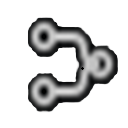
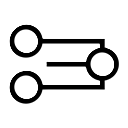
Release prep: clean extension README, categories/keywords, changelogs
- README: rewritten for a published extension — removed scaffold/phase/backlog
  notes and the stale "icon still needed" line; fixed the outdated TS-tracer wording.
- package.json: categories Data Science/Visualization/AI/Other (VS Code has no
  "Data Engineering" category — added as a keyword instead, with data warehouse,
  impact analysis, dtsx, openlineage, mcp, copilot, elt).
- Extension CHANGELOG: consolidated into a clean 0.1.0 first-release entry.
- Root CHANGELOG: [1.2.0] covering the cross-platform engine, per-connection-manager
  overrides, CLI labels/trace, the MCP server, and the new VS Code extension; scan-form
  regrouping noted under Changed.
- Refreshed icon.png.

diff --git a/vscode-extension/README.md b/vscode-extension/README.md
@@ -1,107 +1,77 @@
-# SSIS Lineage (VS Code extension)
+# SSIS Lineage
 
-Scan SSIS projects and explore / trace data lineage without leaving VS Code.
+Scan SQL Server Integration Services (SSIS) projects and explore, trace, and
+document column-level data lineage without leaving VS Code — including AI-agent
+access to your lineage.
 
-> **Status: Phase 1 (MVP).** This is an early scaffold living in the
-> [SSIS-Project-Documentation](../) monorepo. It reuses the same .NET lineage
-> engine and the same Cytoscape graph renderer as the desktop/web app.
+## Features
 
-## Packaging & install (self-contained VSIX)
-
-The extension bundles a self-contained build of the .NET engine (CLI + MCP server),
-so **end users need nothing installed** — no .NET runtime. VSIXes are
-platform-specific.
-
-```bash
-# From vscode-extension/. Requires the .NET 10 SDK (for the build) and Node.
-npm install
-npm run package                 # builds the VSIX for this machine's platform
-npm run package -- linux-x64    # or a specific target:
-                                #   win32-x64 | win32-arm64 | linux-x64 | linux-arm64 | darwin-x64 | darwin-arm64
-```
-
-This publishes the engine self-contained into `bin/`, compiles the extension, and
-writes `ssis-lineage-<target>.vsix` (~40 MB). Install it with **Extensions ▸ … ▸
-Install from VSIX…** (or `code --install-extension ssis-lineage-<target>.vsix`).
-
-> A 128×128 PNG `icon` (referenced from `package.json`) is still needed for a
-> Marketplace listing; it is optional for sideloaded VSIXes.
-
-## What it does today
-
-- Detects `.dtproj` projects in the workspace.
-- **SSIS Lineage: Scan Project** runs the engine CLI and loads the result.
-- **Lineage** activity-bar view: a Package → Task → Component tree of the scan.
-- **Lineage graph** webview: the object/data-flow and column views, with Fit and
-  Reset (reusing the shared renderer).
-- **SSIS Lineage: Trace Lineage** — search any column or table, choose a direction
-  (full / origins / impact), and the column view renders the traced sub-graph with
-  the focused node highlighted. Tracing runs in-process (a TypeScript port of the
-  engine's tracer over the loaded `lineage.json`), so it is instant.
-- **SSIS Lineage: Export Trace (CSV)** — opens the last trace as a CSV document.
-- **Click a column** in the column view to trace from it (drill-down).
-- **SSIS Lineage: Open Exports…** — open the scan's JSON / YAML / Cypher / Markdown /
-  HTML / Mermaid / OpenLineage outputs.
-- **SSIS Lineage: Load Lineage (JSON)…** — open a saved `lineage.json` without re-scanning.
-- **SSIS Lineage: Diff Lineage…** — drift report between a baseline and the current scan.
-- **Per-connection-manager overrides** (`ssisLineage.connectionManagerOverrides`) — redirect
-  specific `.conmgr` connections by name/GUID when the project's connections aren't reachable.
-- **Copilot agent tools** — once a project is scanned, Copilot agent mode can call
-  `#ssisSearch`, `#ssisTrace`, and a status tool to answer questions like “what feeds
-  `DW.Dim_Customers.Email`?” or “what breaks if I change `source.Customers`?”. On
-  VS Code 1.101+ the bundled MCP server is also auto-registered for agent mode.
-- **SSIS Lineage: Set SQL Connection…** — stores a connection string in VS Code
-  Secret Storage (preferred over the plaintext setting) for stored-procedure enrichment.
+- **Scan a project** — point at a `.dtproj`, pick the entry package, and get the full
+  lineage graph. Stored-procedure lineage is resolved from SQL Server (on by default).
+- **Interactive graph** — object/data-flow and column-level views, zoom-to-fit, reset
+  layout, and PNG export.
+- **Search & trace** — find any column or table and trace it upstream (origins),
+  downstream (impact), or both; the focused node is highlighted and the traced
+  sub-graph is rendered. Click a column to drill in from there.
+- **Lineage tree** — a Package → Task → Component view of the scan.
+- **Exports** — open the scan's JSON, YAML, Cypher, Markdown, HTML, Mermaid, or
+  OpenLineage outputs; export a trace to CSV; or load a saved `lineage.json` without
+  re-scanning.
+- **Diff** — compare a baseline against the current scan for change/impact review.
+- **AI agents** — ask Copilot agent mode (or any MCP client) to search and trace your
+  lineage: *“what feeds `DW.Dim_Customers.Email`?”*, *“what breaks if I change
+  `source.Customers`?”*
 
 ## Requirements
 
-The extension drives the .NET lineage engine via its CLI. The cross-platform
-build (`net10.0`) parses SSIS package XML on Windows, macOS, and Linux. SQL
-stored-procedure enrichment additionally needs a reachable SQL Server (and, off
-Windows, SQL/Entra auth rather than integrated security).
+- Self-contained VSIXes bundle the lineage engine, so **no .NET runtime is required**
+  to use the extension.
+- **Stored-procedure enrichment** needs a reachable SQL Server. Connections are read
+  automatically from the project's `.conmgr` connection managers; on Windows,
+  integrated security works out of the box (use SQL/Entra auth on macOS/Linux).
 
-### Pointing at the CLI (development)
+## Install
 
-Build the CLI from the monorepo and set `ssisLineage.cliPath`:
+Install the platform-specific VSIX via **Extensions ▸ ⋯ ▸ Install from VSIX…**, or:
 
 ```bash
-dotnet build ../src/SsisLineage.Cli/SsisLineage.Cli.csproj -f net10.0
+code --install-extension ssis-lineage-<platform>.vsix
 ```
 
-```jsonc
-// settings.json
-"ssisLineage.cliPath": ".../src/SsisLineage.Cli/bin/Debug/net10.0/SsisLineage.Cli.dll"
-```
-
-A packaged release will instead bundle a self-contained CLI under `bin/`, so end
-users won't need .NET installed or this setting.
+Then open a folder containing your SSIS project and run **SSIS Lineage: Scan Project**
+from the Command Palette or the SSIS Lineage view in the activity bar.
 
 ## Settings
 
 | Setting | Purpose |
 |---|---|
-| `ssisLineage.cliPath` | Path to the CLI (`.dll` run via `dotnet`, or a self-contained executable) |
+| `ssisLineage.includeSqlProcedures` | Resolve stored-procedure lineage from SQL Server (on by default) |
 | `ssisLineage.startPackage` | Entry/master package to scan from; prompts if empty |
-| `ssisLineage.includeSqlProcedures` | Resolve stored-procedure lineage from SQL Server |
-| `ssisLineage.sqlConnectionString` | Connection string for proc enrichment; resolves from `.conmgr` if empty |
+| `ssisLineage.sqlConnectionString` | Fallback connection for components whose connection manager isn't in `.conmgr` (prefer **Set SQL Connection…**, which uses Secret Storage) |
+| `ssisLineage.connectionManagerOverrides` | Per-connection-manager connection-string overrides, by name or GUID |
+| `ssisLineage.cliPath` | Override the bundled engine with a specific CLI build (advanced) |
 
-## Develop
+## AI agents
+
+Once a project is scanned, Copilot agent mode can use the `#ssisSearch`, `#ssisTrace`,
+and status tools. On VS Code 1.101+ the bundled Model Context Protocol (MCP) server is
+also registered automatically, and it can be used by any MCP client (Claude Desktop,
+Cursor, …) — see the engine's [MCP server](../src/SsisLineage.Mcp).
+
+## Build from source
+
+Requires the .NET 10 SDK and Node.js.
 
 ```bash
 npm install
-npm run compile      # copies shared graph assets, then builds TypeScript
-# Press F5 in VS Code to launch an Extension Development Host
+npm run package                 # self-contained VSIX for this platform
+npm run package -- linux-x64    # or: win32-x64 | win32-arm64 | linux-x64 | linux-arm64 | darwin-x64 | darwin-arm64
 ```
 
-The webview assets (`media/vendor/`) are copied from the Blazor RCL by
-`scripts/copy-assets.mjs` so there is a single source of truth for the renderer.
+To develop, `npm run compile` then press **F5** to launch an Extension Development
+Host. The graph renderer is shared with the desktop/web app and copied into
+`media/vendor/` by `scripts/copy-assets.mjs`.
 
-## Roadmap
+## License
 
-- ~~Phase 2: column trace / impact analysis~~ ✓ (search + trace + CSV export). In-webview
-  click-through drill-down is in [BACKLOG.md](BACKLOG.md).
-- ~~Phase 3: expose lineage to AI agents~~ ✓ via VS Code Language Model Tools (Copilot
-  agent mode) **and** a provider-agnostic MCP server ([../src/SsisLineage.Mcp](../src/SsisLineage.Mcp))
-  for Claude Desktop / Cursor / VS Code agent mode.
-- ~~Phase 4: connection UX~~ ✓ secure connection via Secret Storage. Deeper mssql
-  connection-profile integration is a follow-up.
+MIT — see [LICENSE](LICENSE).

diff --git a/vscode-extension/CHANGELOG.md b/vscode-extension/CHANGELOG.md
@@ -1,48 +1,27 @@
 # Changelog — SSIS Lineage (VS Code extension)
 
-## [0.1.0] - Unreleased
+## [0.1.0] - 2026-06-13
 
-Phase 1 MVP scaffold.
-
-### Changed
-- **Single tracer (no duplication).** The extension no longer ports the tracer to
-  TypeScript; tracing, label enumeration and trace-CSV now come from the engine via
-  new `ssis-lineage labels` / `ssis-lineage trace` CLI subcommands (the same C#
-  `LineageTracer`). Typeahead filters an engine-provided label list in-memory, so it
-  stays instant; the actual trace is computed by the engine. `src/tracer.ts` removed.
+First release. Scan SSIS projects and explore/trace column-level lineage in VS Code.
 
 ### Added
-- Detect `.dtproj` projects in the workspace.
-- **SSIS Lineage: Scan Project** command — runs the engine CLI and loads the result.
-- **Lineage** activity-bar view with a Package → Task → Component tree.
-- Lineage graph webview reusing the shared Cytoscape renderer (object + column views, Fit, Reset).
-- Settings for CLI path, entry package, and SQL stored-procedure enrichment.
-- **SSIS Lineage: Trace Lineage** — typeahead search for a column/table, choose
-  direction (full / origins / impact); the column view renders the traced sub-graph
-  with the focused node highlighted. Tracing is a TypeScript port of the engine's
-  tracer running in-process over the loaded graph (instant, no round-trips).
-- **SSIS Lineage: Export Trace (CSV)** — opens the last trace as a CSV document
-  matching the engine's trace-export format.
-- **Copilot agent tools** (Language Model Tools): `ssisLineage_search`,
-  `ssisLineage_trace`, and `ssisLineage_status`, so agent mode can query the scanned
-  lineage (referenceable as `#ssisSearch` / `#ssisTrace`).
-- **SSIS Lineage: Set SQL Connection… / Clear SQL Connection** — connection string
-  stored in VS Code Secret Storage (preferred over the plaintext setting); scan uses
-  setting → secret → project `.conmgr`, in that order.
-- **Scan diagnostics** — engine warnings are written to the output channel, and when a
-  data-flow source runs a stored procedure but SQL procedure enrichment is off (so it
-  appears disconnected from its source tables), the scan offers “Enable & re-scan”.
-  Previously this disconnect was silent.
-- **Click-through drill-down** — clicking a column in the column view traces from it
-  and re-renders.
-- **Open Exports…** — open any of the scan's exports (JSON, YAML, Cypher, Markdown,
-  HTML, Mermaid, OpenLineage); HTML opens in the browser.
-- **Load Lineage (JSON)…** — open a previously saved `lineage.json` without re-scanning.
-- **MCP server auto-registration** — on VS Code 1.101+ the bundled MCP server is
-  registered automatically for agent mode (no manual `mcp.json`).
-- **Per-connection-manager overrides** (`ssisLineage.connectionManagerOverrides`) —
-  redirect specific `.conmgr` connections by name or GUID; the single connection
-  (setting/secret) stays the fallback for the rest.
-- **Diff Lineage…** — diff a baseline `lineage.json` against the current scan (or two
-  files) and open the markdown drift report.
-- Scan no longer echoes the connection string to the output channel.
+- **Scan Project** — scan a `.dtproj` from a chosen entry package; stored-procedure
+  lineage resolved from SQL Server (on by default), with connections read from the
+  project's `.conmgr` files.
+- **Interactive graph** — object/data-flow and column-level views (shared renderer),
+  zoom-to-fit, reset layout, PNG export.
+- **Lineage** activity-bar view — Package → Task → Component tree.
+- **Trace Lineage** — typeahead search for a column/table and trace upstream (origins),
+  downstream (impact), or both; focused node highlighted, traced sub-graph rendered.
+- **Click-through drill-down** — click a column in the column view to trace from it.
+- **Export Trace (CSV)**, **Open Exports…** (JSON / YAML / Cypher / Markdown / HTML /
+  Mermaid / OpenLineage), and **Load Lineage (JSON)…** to reopen a saved scan.
+- **Diff Lineage…** — markdown drift report between a baseline and the current scan.
+- **AI agents** — Language Model Tools (`#ssisSearch`, `#ssisTrace`, status) for Copilot
+  agent mode, plus auto-registration of the bundled MCP server (VS Code 1.101+) for any
+  MCP client.
+- **Connections** — secure connection via Secret Storage (**Set SQL Connection…**), a
+  single fallback connection, and per-connection-manager overrides (by name or GUID).
+- **Scan diagnostics** — engine warnings surfaced; when a procedure-backed source isn't
+  traced through because enrichment is off, offers “Enable & re-scan”.
+- Ships as a self-contained, platform-specific VSIX — no .NET runtime required to use it.

diff --git a/CHANGELOG.md b/CHANGELOG.md
@@ -5,6 +5,28 @@ Format follows [Keep a Changelog](https://keepachangelog.com/en/1.1.0/).
 
 ## [Unreleased]
 
+## [1.2.0] - 2026-06-13
+
+### Added
+- **Cross-platform engine** — the core engine and CLI now also target `net10.0` (in
+  addition to `net10.0-windows`), so scanning runs on Windows, macOS, and Linux via the
+  XML package parser. The Windows-only SSIS runtime path is unchanged on Windows.
+- **VS Code extension** (preview, `vscode-extension/`) — scan, visualize, search/trace,
+  drill-down, exports, diff, AI agent tools, and an MCP server, shipped as a
+  self-contained VSIX (no .NET runtime required). Reuses this engine and graph renderer.
+- **MCP server** (`SsisLineage.Mcp`) — exposes scan/search/trace over the Model Context
+  Protocol to AI agents (Claude Desktop, Cursor, VS Code agent mode).
+- **Per-connection-manager overrides** — redirect specific connection managers (by name
+  or GUID) to your own connection string, in the app's scan form and the CLI
+  (`scan --connection-managers <file.json>`); the single connection stays the fallback.
+- **CLI `labels` and `trace`** — machine-readable lineage search and tracing over a
+  `lineage.json` (sub-graph + ordered steps + trace CSV), used by the extension.
+
+### Changed
+- Scan form: connection options are regrouped into “SQL Server connection” (per-database
+  overrides + single fallback) and “Name resolution” (linked servers, variable values),
+  with clearer labels to distinguish a fallback connection from per-manager overrides.
+
 ## [1.1.4] - 2026-06-11
 
 ### Added
@@ -74,7 +96,8 @@ Format follows [Keep a Changelog](https://keepachangelog.com/en/1.1.0/).
 - CLI `scan` command with JSON, YAML, Neo4j Cypher, Markdown, and HTML export
 - MIT license
 
-[Unreleased]: https://github.com/okutue/SSIS-Project-Documentation/compare/v1.1.4...HEAD
+[Unreleased]: https://github.com/okutue/SSIS-Project-Documentation/compare/v1.2.0...HEAD
+[1.2.0]: https://github.com/okutue/SSIS-Project-Documentation/compare/v1.1.4...v1.2.0
 [1.1.4]: https://github.com/okutue/SSIS-Project-Documentation/compare/v1.1.3...v1.1.4
 [1.1.3]: https://github.com/okutue/SSIS-Project-Documentation/compare/v1.1.2...v1.1.3
 [1.1.2]: https://github.com/okutue/SSIS-Project-Documentation/compare/v1.1.1...v1.1.2
